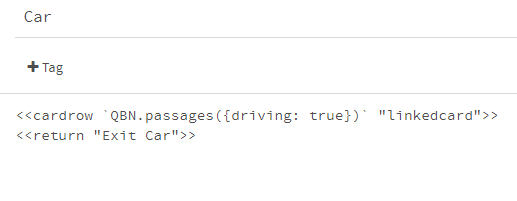
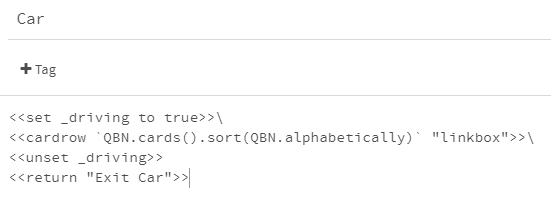
Fix tutorial images, ranges in tutorial-2.tw.

diff --git a/examples/tutorial-2.html b/examples/tutorial-2.html
@@ -683,21 +683,17 @@ Macro.add('choices', {
 
 [[Drive-&gt;Car]] | &lt;&lt;link &quot;Next Month&quot; &quot;Home&quot;&gt;&gt;&lt;&lt;nextmonth&gt;&gt;&lt;&lt;/link&gt;&gt;</tw-passagedata><tw-passagedata pid="4" name="Fairweather Farm" tags="sticky-card req-driving req-location-ne-fairweather" position="475,100" size="100,100">!Fairweather Farm
 &lt;&lt;set $location to &quot;fairweather&quot;&gt;&gt;\
-&lt;&lt;script&gt;&gt;
-QBN.range(&quot;$month&quot;, [4, &quot;egg&quot;, 11])
-QBN.range(&quot;$month&quot;, [4, &quot;cool&quot;, 6, &quot;hot&quot;, 9, &quot;cool&quot;, 11])
-QBN.range(&quot;$month&quot;, [&quot;potato&quot;, 3, 6, &quot;potato&quot;])
-&lt;&lt;/script&gt;&gt;\
+&lt;&lt;range $month 4 &quot;egg&quot; 11&gt;&gt;\
+&lt;&lt;range $month 4 &quot;cool&quot; 6 &quot;hot&quot; 9 &quot;cool&quot; 11&gt;&gt;\
+&lt;&lt;range $month &quot;potato&quot; 3 6 &quot;potato&quot;&gt;&gt;\
 &lt;&lt;include &quot;current products&quot;&gt;&gt;
 [[Drive-&gt;Car]]</tw-passagedata><tw-passagedata pid="5" name="Anderson Farm" tags="sticky-card req-driving req-location-ne-anderson" position="600,100" size="100,100">!Anderson Farm
 &lt;&lt;set $location to &quot;anderson&quot;&gt;&gt;\
 &lt;&lt;include &quot;current products&quot;&gt;&gt;
 [[Drive-&gt;Car]]</tw-passagedata><tw-passagedata pid="6" name="Docks" tags="sticky-card req-driving req-location-ne-docks" position="725,100" size="100,100">!Docks
 &lt;&lt;set $location to &quot;docks&quot;&gt;&gt;\
-&lt;&lt;script&gt;&gt;
-QBN.range(&quot;$month&quot;, [5, &quot;mackerel&quot;, 7, 10, &quot;mackerel&quot;])
-QBN.range(&quot;$month&quot;, [&quot;shrimp&quot;, 4, 12, &quot;shrimp&quot;])
-&lt;&lt;/script&gt;&gt;\
+&lt;&lt;range $month 5 &quot;mackerel&quot; 7 10 &quot;mackerel&quot;&gt;&gt;\
+&lt;&lt;range $month &quot;shrimp&quot; 4 12 &quot;shrimp&quot;&gt;&gt;\
 &lt;&lt;include &quot;current products&quot;&gt;&gt;
 [[Drive-&gt;Car]]</tw-passagedata><tw-passagedata pid="7" name="Car" tags="" position="850,100" size="100,100">&lt;&lt;set _driving to true&gt;&gt;\
 &lt;&lt;cardrow `QBN.cards().sort(QBN.alphabetically)` &quot;linkbox&quot;&gt;&gt;\

diff --git a/doc/tutorial-2.md b/doc/tutorial-2.md
@@ -31,7 +31,7 @@ accordingly.
 `<<cardlist>>` is another one of my TinyQBN widgets. It creates a
 comma-separated list of cards.
 
-<!-- ![current products passage](current-2.png) -->
+![current products passage](current-2.png)
 
 Now `<<include "current products">>` in each of the business
 passages.
@@ -103,7 +103,7 @@ define a variable if it's in a named range. This will set
 `_egg_month` if `$month` is 4 through 10, because the next range
 starts at exactly 11.
 
-<!-- ![Fairweather Farm passage](fairweather-2.png) -->
+![Fairweather Farm passage](fairweather-2.png)
 
 Now we'll create two passages. Name the first "Plentiful Eggs", set
 its contents to "eggs from happy hens", and tag it `sticky-card`,
@@ -116,7 +116,7 @@ is a requirement that will be randomly satisfied 67% of the time).
 So in the off season we'll still have eggs about two-thirds of the
 time. Play the story and make sure that works.
 
-<!-- ![Limited Eggs passage](eggs-2.png) -->
+![Limited Eggs passage](eggs-2.png)
 
 Note that `not-egg_month` is two separate ranges: January through
 March and November through December. We could not have done this

diff --git a/doc/tutorial-1.md b/doc/tutorial-1.md
@@ -44,7 +44,7 @@ underscores).
 Also we need a way to drive somewhere else, so let's add a link
 `[[Drive->Car]]`.
 
-<!-- ![Home passage](home-1.png) -->
+![Home passage](home-1.png)
 
 In the car, we're going to show you all the places you can drive
 to. So we're going to say
@@ -96,14 +96,14 @@ Do the same to the other locations. Since we can't put spaces in
 tags, we'll shorten some of the names: "fairweather" and
 "anderson".
 
-<!-- ![Anderson Farm passage](anderson-1.png) -->
+![Anderson Farm passage](anderson-1.png)
 
 We'll also add a link to the car so you can get out without
 driving anywhere:
 
 	<<return "Exit Car">>
 
-<!-- ![Car passage](car-1.png) -->
+![Car passage](car-1.png)
 
 Now if you play it, you should be able to exit the car and return
 to your previous location, or drive to any of the other locations.
